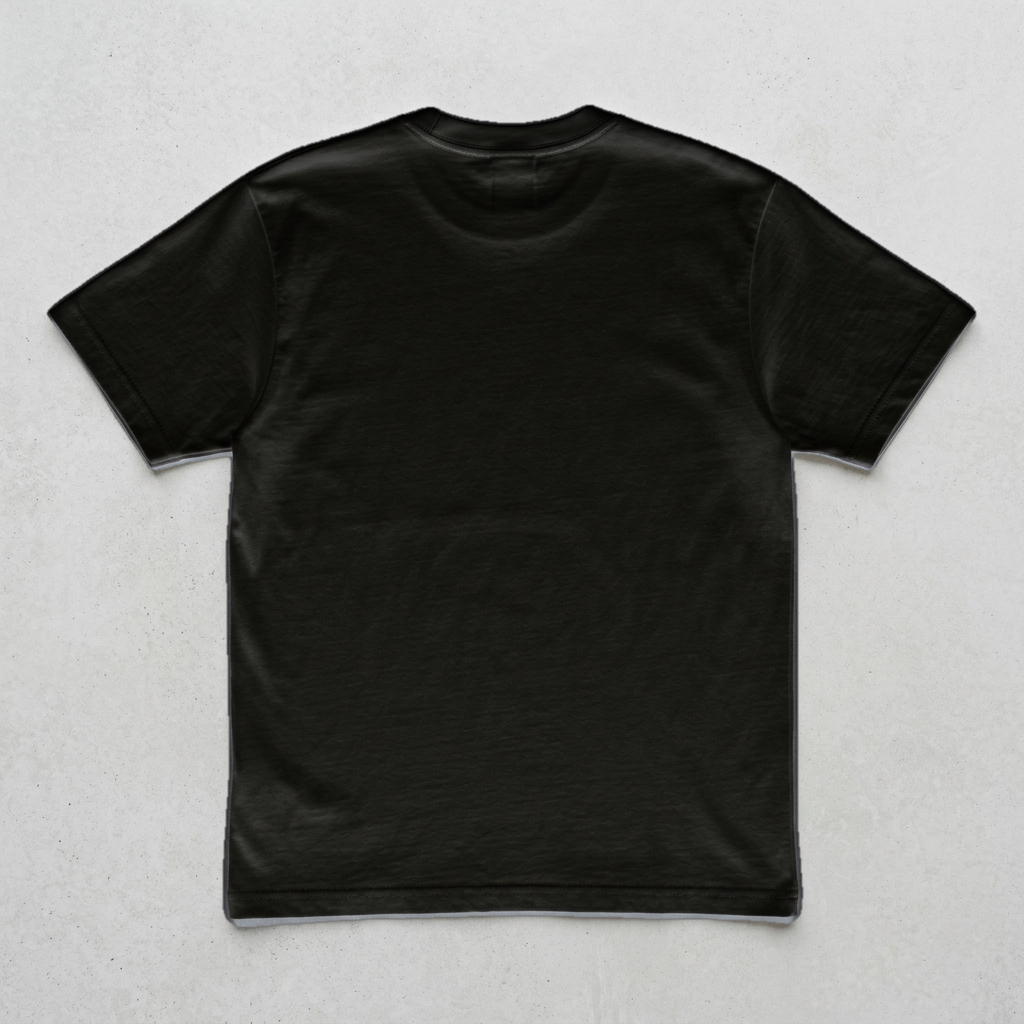
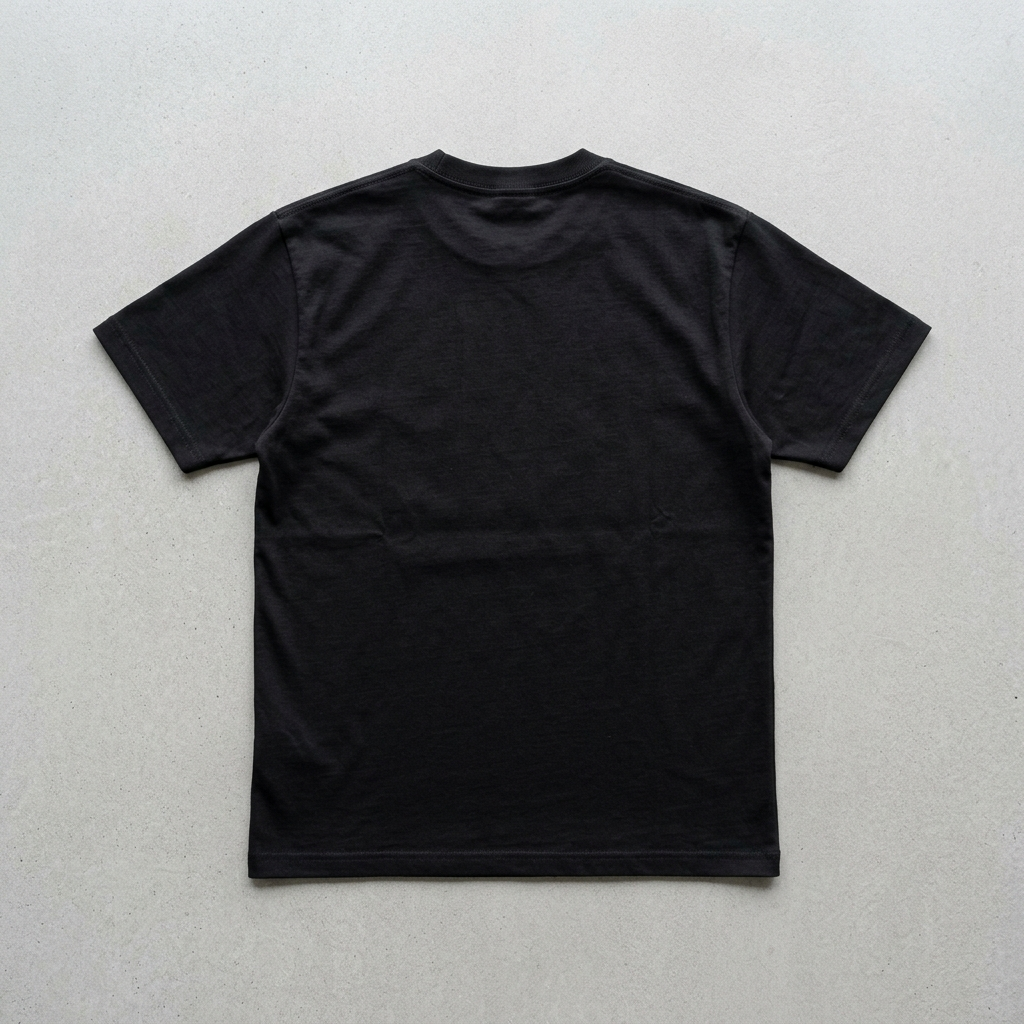
feat: Use freshly generated photorealistic assets and masks for black t-shirts

Changed region(s): [[0.0, 0.0938, 1.0, 1.0], [0.875, 0.5, 0.9375, 0.5312], [0.125, 0.5625, 0.1562, 0.5938]]

diff --git a/app.js b/app.js
@@ -437,7 +437,9 @@ exportBtn.addEventListener('click', async () => {
             maskImg.crossOrigin = "anonymous";
             // viewName is 'front', 'back', 'inner_tag', or 'outer_collar'
             let maskName = viewName.replace('_tag', '').replace('outer_', '');
-            maskImg.src = `assets/mask_${maskName}.png`;
+            
+            const suffix = currentBodyColor === 'black' ? '_black' : '';
+            maskImg.src = `assets/mask_${maskName}${suffix}.png`;
             
             await new Promise((resolve) => {
                 maskImg.onload = resolve;
@@ -590,8 +592,8 @@ document.addEventListener('DOMContentLoaded', () => {
         const cacheBust = '?v=11';
         const suffix = currentBodyColor === 'black' ? '_black' : '';
         baseImg.src = `assets/model_${currentGender}${suffix}.png${cacheBust}`;
-        maskArea.style.maskImage = `url('assets/mask_model_${currentGender}.png${cacheBust}')`;
-        maskArea.style.webkitMaskImage = `url('assets/mask_model_${currentGender}.png${cacheBust}')`;
+        maskArea.style.maskImage = `url('assets/mask_model_${currentGender}${suffix}.png${cacheBust}')`;
+        maskArea.style.webkitMaskImage = `url('assets/mask_model_${currentGender}${suffix}.png${cacheBust}')`;
         
         const config = modelConfig[currentGender];
         
@@ -695,10 +697,26 @@ document.addEventListener('DOMContentLoaded', () => {
 
     function updateBodyColor() {
         const suffix = currentBodyColor === 'black' ? '_black' : '';
-        document.querySelector('#container-front .base-shirt').src = `assets/front${suffix}.png`;
-        document.querySelector('#container-back .base-shirt').src = `assets/back${suffix}.png`;
-        document.querySelector('#container-collar .base-shirt').src = `assets/outer_collar${suffix}.png`;
-        document.querySelector('#container-inner .base-shirt').src = `assets/inner_tag${suffix}.png`;
+        
+        const views = [
+            { id: '#container-front', base: 'front', mask: 'mask_front' },
+            { id: '#container-back', base: 'back', mask: 'mask_back' },
+            { id: '#container-collar', base: 'outer_collar', mask: 'mask_collar' },
+            { id: '#container-inner', base: 'inner_tag', mask: 'mask_inner' }
+        ];
+
+        views.forEach(v => {
+            const container = document.querySelector(v.id);
+            if(container) {
+                container.querySelector('.base-shirt').src = `assets/${v.base}${suffix}.png`;
+                const maskedArea = container.querySelector('.masked-area');
+                if(maskedArea) {
+                    const maskUrl = `url('assets/${v.mask}${suffix}.png?v=18')`;
+                    maskedArea.style.maskImage = maskUrl;
+                    maskedArea.style.webkitMaskImage = maskUrl;
+                }
+            }
+        });
         
         // Ensure model view is updated if modal is open
         if (typeof updateModelView === 'function') {

diff --git a/index.html b/index.html
@@ -203,6 +203,6 @@
     </div>
     
     <!-- Custom Script -->
-    <script src="app.js?v=22"></script>
+    <script src="app.js?v=23"></script>
 </body>
 </html>

diff --git a/process_black.py b/process_black.py
@@ -1,0 +1,105 @@
+import cv2
+import numpy as np
+import glob
+import shutil
+
+def extract_flat_mask(img_path, out_path):
+    img = cv2.imread(img_path)
+    if img is None:
+        return
+    hsv = cv2.cvtColor(img, cv2.COLOR_BGR2HSV)
+    lower_black = np.array([0, 0, 0])
+    upper_black = np.array([180, 255, 60])
+    mask = cv2.inRange(hsv, lower_black, upper_black)
+    
+    # Use rembg as it's better for flat items! Wait, we have rembg!
+    return
+
+def extract_with_rembg(img_path, out_path):
+    import rembg
+    from PIL import Image
+    import io
+    
+    with open(img_path, 'rb') as f:
+        input_data = f.read()
+    
+    # Run rembg
+    output_data = rembg.remove(input_data)
+    img = Image.open(io.BytesIO(output_data))
+    
+    # Convert to OpenCV
+    img_cv = np.array(img)
+    # The alpha channel is our mask!
+    if img_cv.shape[2] == 4:
+        alpha = img_cv[:,:,3]
+        # Smooth and threshold
+        alpha = cv2.GaussianBlur(alpha, (15,15), 0)
+        _, alpha = cv2.threshold(alpha, 127, 255, cv2.THRESH_BINARY)
+        out = np.zeros_like(img_cv)
+        out[:,:,3] = alpha
+        cv2.imwrite(out_path, out)
+        print(f"rembg created mask {out_path}")
+
+def extract_model_mask(img_path, out_path):
+    img = cv2.imread(img_path)
+    hsv = cv2.cvtColor(img, cv2.COLOR_BGR2HSV)
+    lower_black = np.array([0, 0, 0])
+    upper_black = np.array([180, 255, 60])
+    mask = cv2.inRange(hsv, lower_black, upper_black)
+    
+    kernel = np.ones((5,5), np.uint8)
+    mask = cv2.morphologyEx(mask, cv2.MORPH_OPEN, kernel)
+    mask = cv2.morphologyEx(mask, cv2.MORPH_CLOSE, kernel)
+    
+    contours, _ = cv2.findContours(mask, cv2.RETR_EXTERNAL, cv2.CHAIN_APPROX_SIMPLE)
+    if contours:
+        valid_contours = []
+        for c in contours:
+            x,y,w,h = cv2.boundingRect(c)
+            if y > img.shape[0] * 0.15: # Skip top 15% (hair)
+                valid_contours.append(c)
+        if valid_contours:
+            largest_contour = max(valid_contours, key=cv2.contourArea)
+            clean_mask = np.zeros_like(mask)
+            cv2.drawContours(clean_mask, [largest_contour], -1, 255, -1)
+            clean_mask = cv2.GaussianBlur(clean_mask, (15,15), 0)
+            _, clean_mask = cv2.threshold(clean_mask, 127, 255, cv2.THRESH_BINARY)
+            
+            out = np.zeros((img.shape[0], img.shape[1], 4), dtype=np.uint8)
+            out[:,:,3] = clean_mask
+            cv2.imwrite(out_path, out)
+            print(f"Created model mask {out_path}")
+
+import os
+brain_dir = '/Users/fds_2023_1/.gemini/antigravity/brain/a9dcbb1c-9e36-4eb9-ab73-db2c5b8d2201/'
+
+# Copy generated images to assets and make masks
+fronts = glob.glob(brain_dir + 'front_black_*.png')
+if fronts:
+    shutil.copy(fronts[-1], 'assets/front_black.png')
+    extract_with_rembg('assets/front_black.png', 'assets/mask_front_black.png')
+
+backs = glob.glob(brain_dir + 'back_black_*.png')
+if backs:
+    shutil.copy(backs[-1], 'assets/back_black.png')
+    extract_with_rembg('assets/back_black.png', 'assets/mask_back_black.png')
+
+collars = glob.glob(brain_dir + 'outer_collar_black_*.png')
+if collars:
+    shutil.copy(collars[-1], 'assets/outer_collar_black.png')
+    extract_with_rembg('assets/outer_collar_black.png', 'assets/mask_collar_black.png')
+
+tags = glob.glob(brain_dir + 'inner_tag_black_*.png')
+if tags:
+    shutil.copy(tags[-1], 'assets/inner_tag_black.png')
+    extract_with_rembg('assets/inner_tag_black.png', 'assets/mask_inner_black.png')
+
+males = glob.glob(brain_dir + 'model_male_black_*.png')
+if males:
+    shutil.copy(males[-1], 'assets/model_male_black.png')
+    extract_model_mask('assets/model_male_black.png', 'assets/mask_model_male_black.png')
+
+females = glob.glob(brain_dir + 'model_female_black_*.png')
+if females:
+    shutil.copy(females[-1], 'assets/model_female_black.png')
+    extract_model_mask('assets/model_female_black.png', 'assets/mask_model_female_black.png')

diff --git a/test_black_mask.py b/test_black_mask.py
@@ -1,0 +1,49 @@
+import cv2
+import numpy as np
+import glob
+
+male_images = glob.glob('/Users/fds_2023_1/.gemini/antigravity/brain/a9dcbb1c-9e36-4eb9-ab73-db2c5b8d2201/model_male_black_*.png')
+if not male_images:
+    print("No images found")
+    exit()
+    
+img_path = male_images[-1]
+img = cv2.imread(img_path)
+
+hsv = cv2.cvtColor(img, cv2.COLOR_BGR2HSV)
+
+# Threshold for black (low V)
+lower_black = np.array([0, 0, 0])
+upper_black = np.array([180, 255, 60])
+
+mask = cv2.inRange(hsv, lower_black, upper_black)
+
+kernel = np.ones((5,5), np.uint8)
+mask = cv2.morphologyEx(mask, cv2.MORPH_OPEN, kernel)
+mask = cv2.morphologyEx(mask, cv2.MORPH_CLOSE, kernel)
+
+contours, _ = cv2.findContours(mask, cv2.RETR_EXTERNAL, cv2.CHAIN_APPROX_SIMPLE)
+if contours:
+    # Filter out contours that are too small or likely to be hair (too high up)
+    valid_contours = []
+    for c in contours:
+        x,y,w,h = cv2.boundingRect(c)
+        if y > img.shape[0] * 0.2: # Skip things in the top 20% (hair)
+            valid_contours.append(c)
+            
+    if valid_contours:
+        largest_contour = max(valid_contours, key=cv2.contourArea)
+        clean_mask = np.zeros_like(mask)
+        cv2.drawContours(clean_mask, [largest_contour], -1, 255, -1)
+        
+        clean_mask = cv2.GaussianBlur(clean_mask, (15,15), 0)
+        _, clean_mask = cv2.threshold(clean_mask, 127, 255, cv2.THRESH_BINARY)
+        
+        out = np.zeros((img.shape[0], img.shape[1], 4), dtype=np.uint8)
+        out[:,:,3] = clean_mask
+        cv2.imwrite('assets/test_mask_male_black.png', out)
+        print("Saved assets/test_mask_male_black.png")
+    else:
+        print("No valid contours")
+else:
+    print("No contours found")
